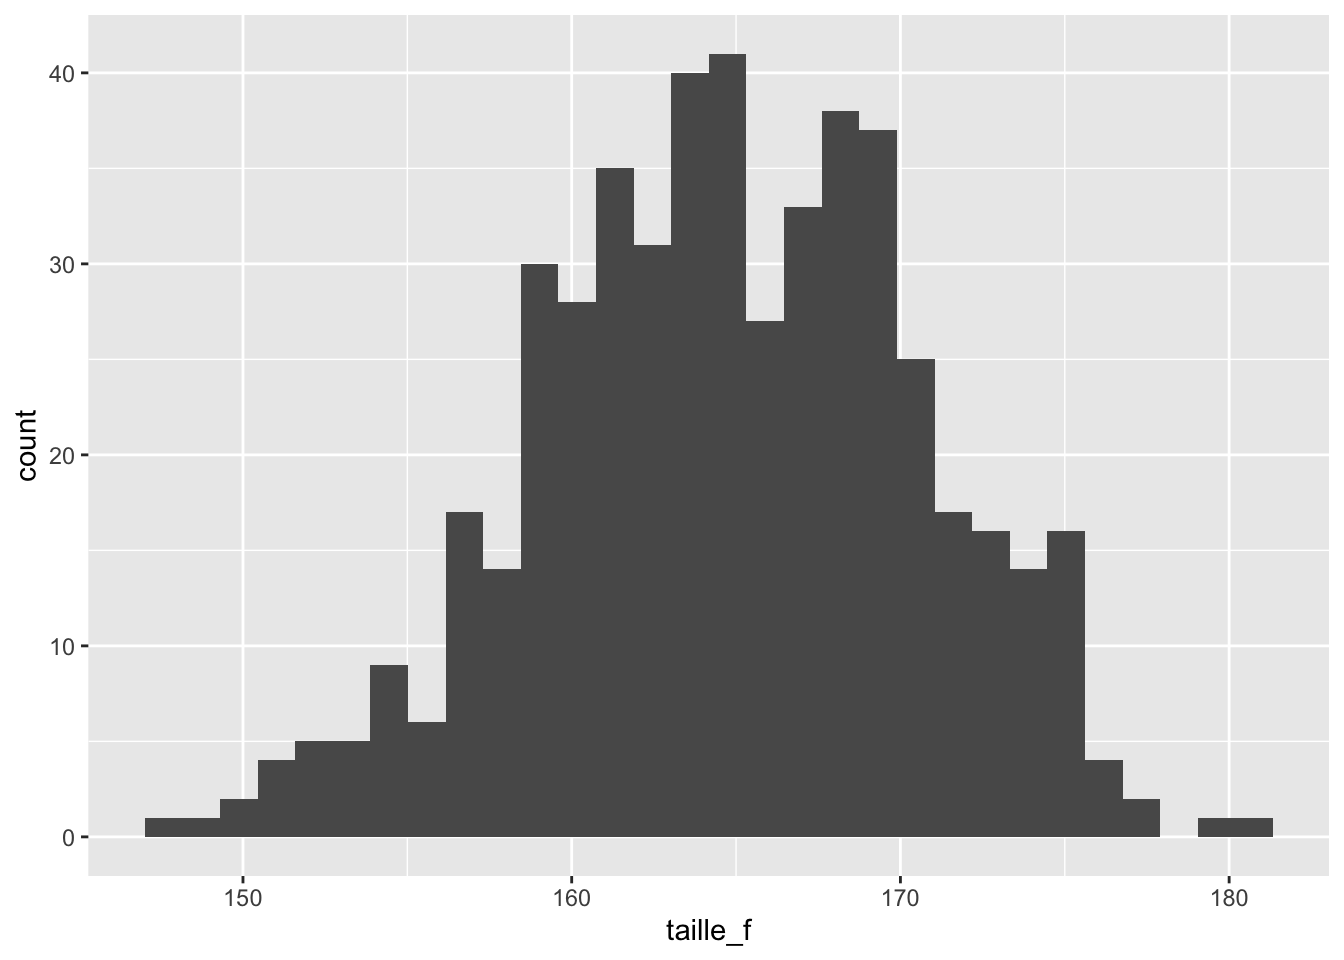
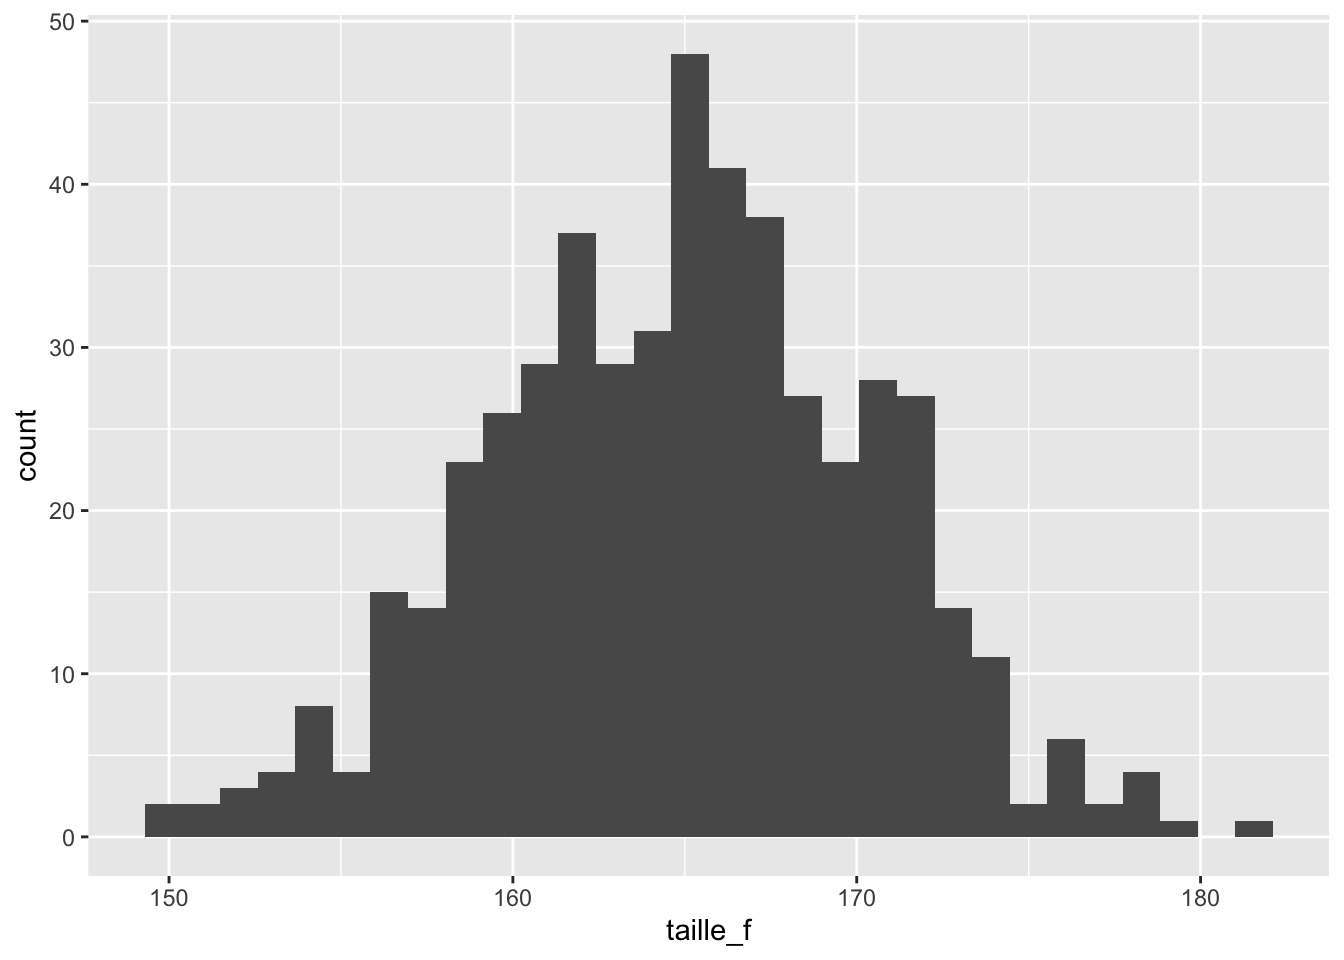
session 7 v3

diff --git a/index.html b/index.html
@@ -1727,7 +1727,7 @@ Attention
 <span id="cb100-5"><a href="#cb100-5" aria-hidden="true" tabindex="-1"></a></span>
 <span id="cb100-6"><a href="#cb100-6" aria-hidden="true" tabindex="-1"></a><span class="fu">head</span>(taille_f)</span></code><button title="Copy to Clipboard" class="code-copy-button"><i class="bi"></i></button></pre></div>
 <div class="cell-output cell-output-stdout">
-<pre><code>[1] 161.3670 164.3414 159.4570 167.8825 161.1205 162.3980</code></pre>
+<pre><code>[1] 164.9975 167.2939 163.9058 166.9815 164.2533 154.7217</code></pre>
 </div>
 <div class="sourceCode cell-code" id="cb102"><pre class="sourceCode r code-with-copy"><code class="sourceCode r"><span id="cb102-1"><a href="#cb102-1" aria-hidden="true" tabindex="-1"></a><span class="co"># stocker taille_f comme objet de type 'data.frame'</span></span>
 <span id="cb102-2"><a href="#cb102-2" aria-hidden="true" tabindex="-1"></a>taille_f <span class="ot">&lt;-</span> <span class="fu">as.data.frame</span>(taille_f)</span>
@@ -1999,7 +1999,7 @@ Nguyen, Laetitia, 19<br>
 </table>
 </div>
 </div>
-<p>Avant l’imporation de fichier CSV dans RStudio (et comme déjà vu pleins de fois dans le cours 😉), il faut d’abord charger les paquets nécessaire avec <code>library()</code> et définir son répértoire de travail (vous devez effacer le dièze et adapter le code suivant pour qu’il marche sur votre ordinateur) :</p>
+<p>Avant l’importation de fichier CSV dans RStudio (et comme déjà vu pleins de fois dans le cours 😉), il faut d’abord charger les paquets nécessaire avec <code>library()</code> et définir son répértoire de travail (vous devez adapter les paramètres de <code>setwd()</code> pour qu’il marche sur votre ordinateur) :</p>
 <div class="cell">
 <div class="sourceCode cell-code" id="cb111"><pre class="sourceCode r code-with-copy"><code class="sourceCode r"><span id="cb111-1"><a href="#cb111-1" aria-hidden="true" tabindex="-1"></a><span class="fu">library</span>(tidyverse)</span>
 <span id="cb111-2"><a href="#cb111-2" aria-hidden="true" tabindex="-1"></a></span>
@@ -2327,7 +2327,7 @@ Astuce
 <ul>
 <li><p>Attention, <strong>la session 8 du 17 et 18 avril 2024 sera une session en auto-apprentissage !</strong> Il n’y a donc pas d’enseignement en classe à Fribourg.</p></li>
 <li><p>Le matériel de session 8, la deuxième partie de la manipulation de données, sera accessible sur ce site à partir du 17 avril.</p></li>
-<li><p>Assurez-vous d’avoir <strong>rempli le questionnaire avant la date limite</strong> (<strong>19 avril 2024 à 23h59</strong>). Tous les étudiant(e)s qui auront rempli le questionnaire à temps recevront 2 points de bonus pour le problème set 4 (10% des points).</p></li>
+<li><p>Assurez-vous d’avoir <strong>rempli le questionnaire avant la date limite</strong> (<strong>19 avril 2024 à 23h59</strong>). Tou(te)s les étudiant(e)s qui auront rempli le questionnaire à temps recevront 2 points de bonus pour le problème set 4 (10% des points).</p></li>
 <li><p>Si vous avez des difficultés à accéder au questionnaire via le lien personnalisé qui vous a été envoyé par e-mail : Essayez à nouveau avec différents navigateurs, sur votre téléphone portable et désactivez les éventuels ad-blockers. Si nécessaire, veuillez contacter l’enseignant afin de recevoir un nouveau lien par e-mail.</p></li>
 <li><p>Dans deux semaines, les 24 et 25 avril, aura lieu <strong>Problem Set 3</strong>. Il portera principalement sur les contenus des sessions 7 et 8 (manipulation de données). Comblez vous-même les éventuelles lacunes de vos connaissances (p.&nbsp;ex. configurer correctement le répertoire de travail, utiliser l’opérateur d’assignation <code>&lt;-</code>, etc.) Assurez-vous de pouvoir lire correctement les fichiers CSV dans RStudio, car cela sera nécessaire pour résoudre l’ensemble de problèmes 3.</p></li>
 </ul>
